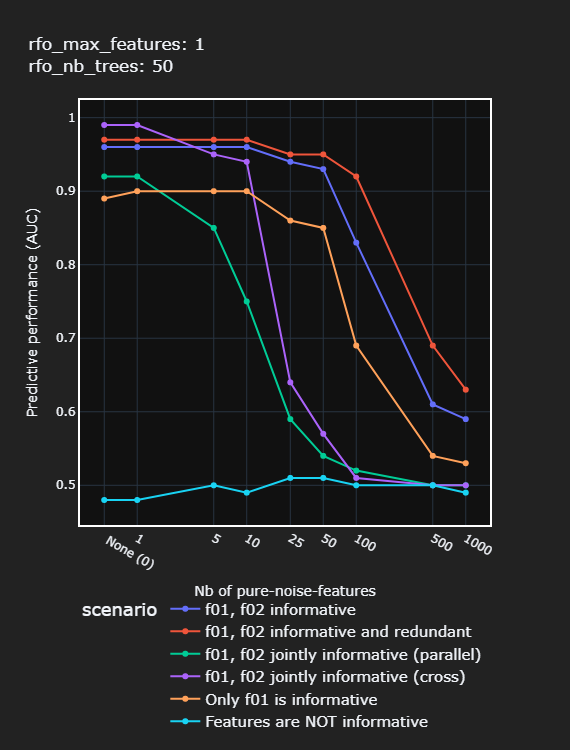
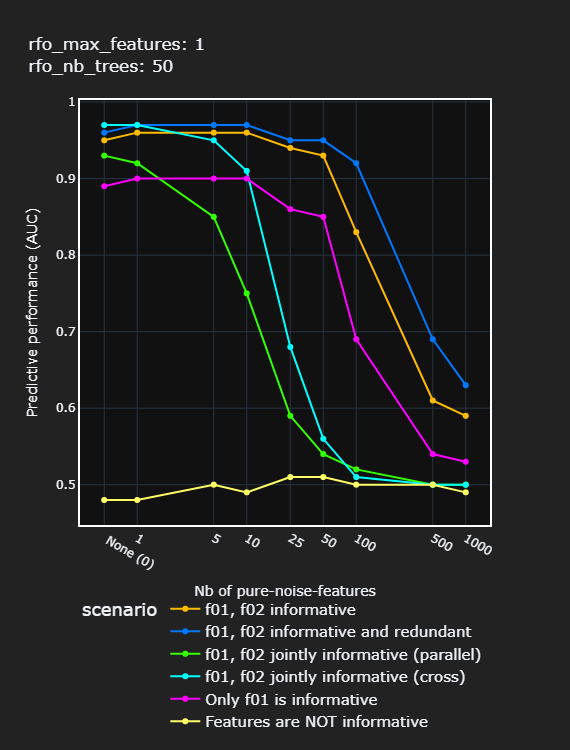
so far so ggod - ready to merge into master

diff --git a/st_page_00.py b/st_page_00.py
@@ -26,26 +26,24 @@ with col_a:
          
     :orange[**INTRODUCTION**]
     
-    In supervised classification problems, many features are often available but we suspect that not all needed.
+    In supervised classification problems, many features are often available but not all may be needed.
     Detecting and excluding every last non-informative feature if often not feasible.
     It is therefore legitimate to ask which amount of non-informative features is acceptable. 
     This mini-project gives some answers based on simulated data.
-    **WORD OF CAUTION:** The scenarios assessed here are artificial and by no way representative of situations encountered in the real world.
-    Yet, they are great way to didactically illustrate the subtle interactions between data and models.     
+    **WORD OF CAUTION:** The scenarios assessed here are artificial and by no way representative of situations encountered in the real world.    
     ''')
 
     st.markdown(''' 
     :orange[**METHODS**]
                             
     A binary class variable and two features that inform classification are created.
-    Many pure-noise-features can be included in the feature space.
+    Many additional pure-noise-features can be included in the feature space.
     They are non-informative for the classification task because they are sampled from the same random normal for both classes.
-    Random Forest classifiers are trained on this data and their predictive performance (ROC-AUC) is computed with a test set.
-    As a modeling method, the Random Forest was chosen because it can handle non-linear problems, it is robust to feature scale, and its hyper-parameters are easy to tune.
+    Classifiers are trained on this data and their predictive performance (ROC-AUC) is computed with a test set.
+    As a primary modeling method, the Random Forest was chosen because it can handle non-linear problems, it is robust to feature scale, and its hyper-parameters are easy to tune.
     Random Forest has one important hyper-parameter, **max_features**, which is the number of features to consider during search of best split.
     Setting **max_features** to 1 mean at each split the feature to use is chosen at random.
-    Setting it to total number of features means that at each split all features are assessed and the best is chosen.
-    Hence, higher values of **max_features** are expected to perform better in the presence of many pure-noise-features.          
+    Setting it to total number of features means that at each split all features are assessed and the best is chosen.        
     ''')
 
     st.markdown(''' 
@@ -76,7 +74,6 @@ with col_a:
     *  Logistic regression is clearly more robust to a large number of pure-noise-features than random forest
     *  A drop in performance is seen for very large number of pure-noise-features > 100
     *  Obviously, the scenarios "f01, f02 jointly informative (cross)" cannot be handled by a linear classifier.
-    *  <to be continued ...>
     ''')
     col_a, col_b, col_c = st.columns([0.20, 0.20, 0.20])
     col_a.image(image = os.path.join(path_pics, 'results_01.png'), caption="Figure 7", width=None, use_container_width=False)

diff --git a/utils.py b/utils.py
@@ -14,8 +14,8 @@ from sklearn.metrics import roc_auc_score
 import streamlit as st
 
 
-plotcol_seq = ['#0077ff', '#ffaa00', '#33ff00', '#00ffff', '#ff00ff', '#ffff66', '#ff0000']
-# ['#0077ff', '#ffbb00']
+plotcol_seq01 = ['#0077ff', '#ffaa00', '#33ff00', '#00ffff', '#ff00ff', '#ffff66', '#ff0000']
+plotcol_seq02 = ['#ffbb00', '#0077ff', '#33ff00', '#00ffff', '#ff00ff', '#ffff66', '#ff0000']
 
 def bivariate_normal(n = 1000, mu =[0,0] , std = [3,2], corr = 0.5):
     """ 
@@ -77,7 +77,7 @@ def plot_scenarios(scenarios_di, seed, width = 450, height = 450,):
             height = height,
             title = tit_str,
             template="plotly_dark",
-            color_discrete_sequence = plotcol_seq,
+            color_discrete_sequence = plotcol_seq01,
             )         
         _ = fig1.update_xaxes(showline = True, linecolor = 'white', linewidth = 2, row = 1, col = 1, mirror = True)
         _ = fig1.update_yaxes(showline = True, linecolor = 'white', linewidth = 2, row = 1, col = 1, mirror = True)
@@ -187,7 +187,7 @@ def plot_performance_vs_n_features(li,  width = 500, height = 750):
         title = pl_title,
         template="plotly_dark",
         log_x = True,
-        color_discrete_sequence = plotcol_seq,
+        color_discrete_sequence = plotcol_seq02,
         )
     # dirty trick to be able to plot 0 on a logarithmic x axis 
     x_axis_num = fig['data'][0]['x']

diff --git a/main.py b/main.py
@@ -45,15 +45,15 @@ scenarios_di = {
     }
 
 # Prepare scenario figures  
-figs_li = plot_scenarios(scenarios_di, random_seed)
+figs_li = plot_scenarios(scenarios_di, random_seed,  width = 555, height = 460,)
 
-# # Evaluate the scenarios (QUICK)
-nb_noisy_features = [0, 5, 10]
-nb_trees = 10
+# # # Evaluate the scenarios (QUICK)
+# nb_noisy_features = [0, 1, 5, 10, 50, 100]
+# nb_trees = 10
 
-# # Evaluate the scenarios (FULL)
-# nb_noisy_features = [0, 1, 5, 10, 25, 50, 100, 500, 1000]
-# nb_trees = 50
+# Evaluate the scenarios (FULL)
+nb_noisy_features = [0, 1, 5, 10, 25, 50, 100, 500, 1000]
+nb_trees = 50
 
 resu01 = evaluate_scenarios_rfo(rfo_max_features =  1, sce = scenarios_di, nb_noisy_features = nb_noisy_features,  ntrees = nb_trees, seed = random_seed)
 resu02 = evaluate_scenarios_rfo(rfo_max_features = 10, sce = scenarios_di, nb_noisy_features = nb_noisy_features,  ntrees = nb_trees, seed = random_seed)

diff --git a/st_page_01.py b/st_page_01.py
@@ -8,7 +8,7 @@ import plotly.express as px
 from utils import plot_scenarios, evaluate_scenarios_rfo, evaluate_scenarios_logit, plot_performance_vs_n_features
 from streamlit import session_state as ss
 
-random_seed = 8594652
+random_seed = 557
 
 # Define pre-specified scenarios 
 N = 3000
